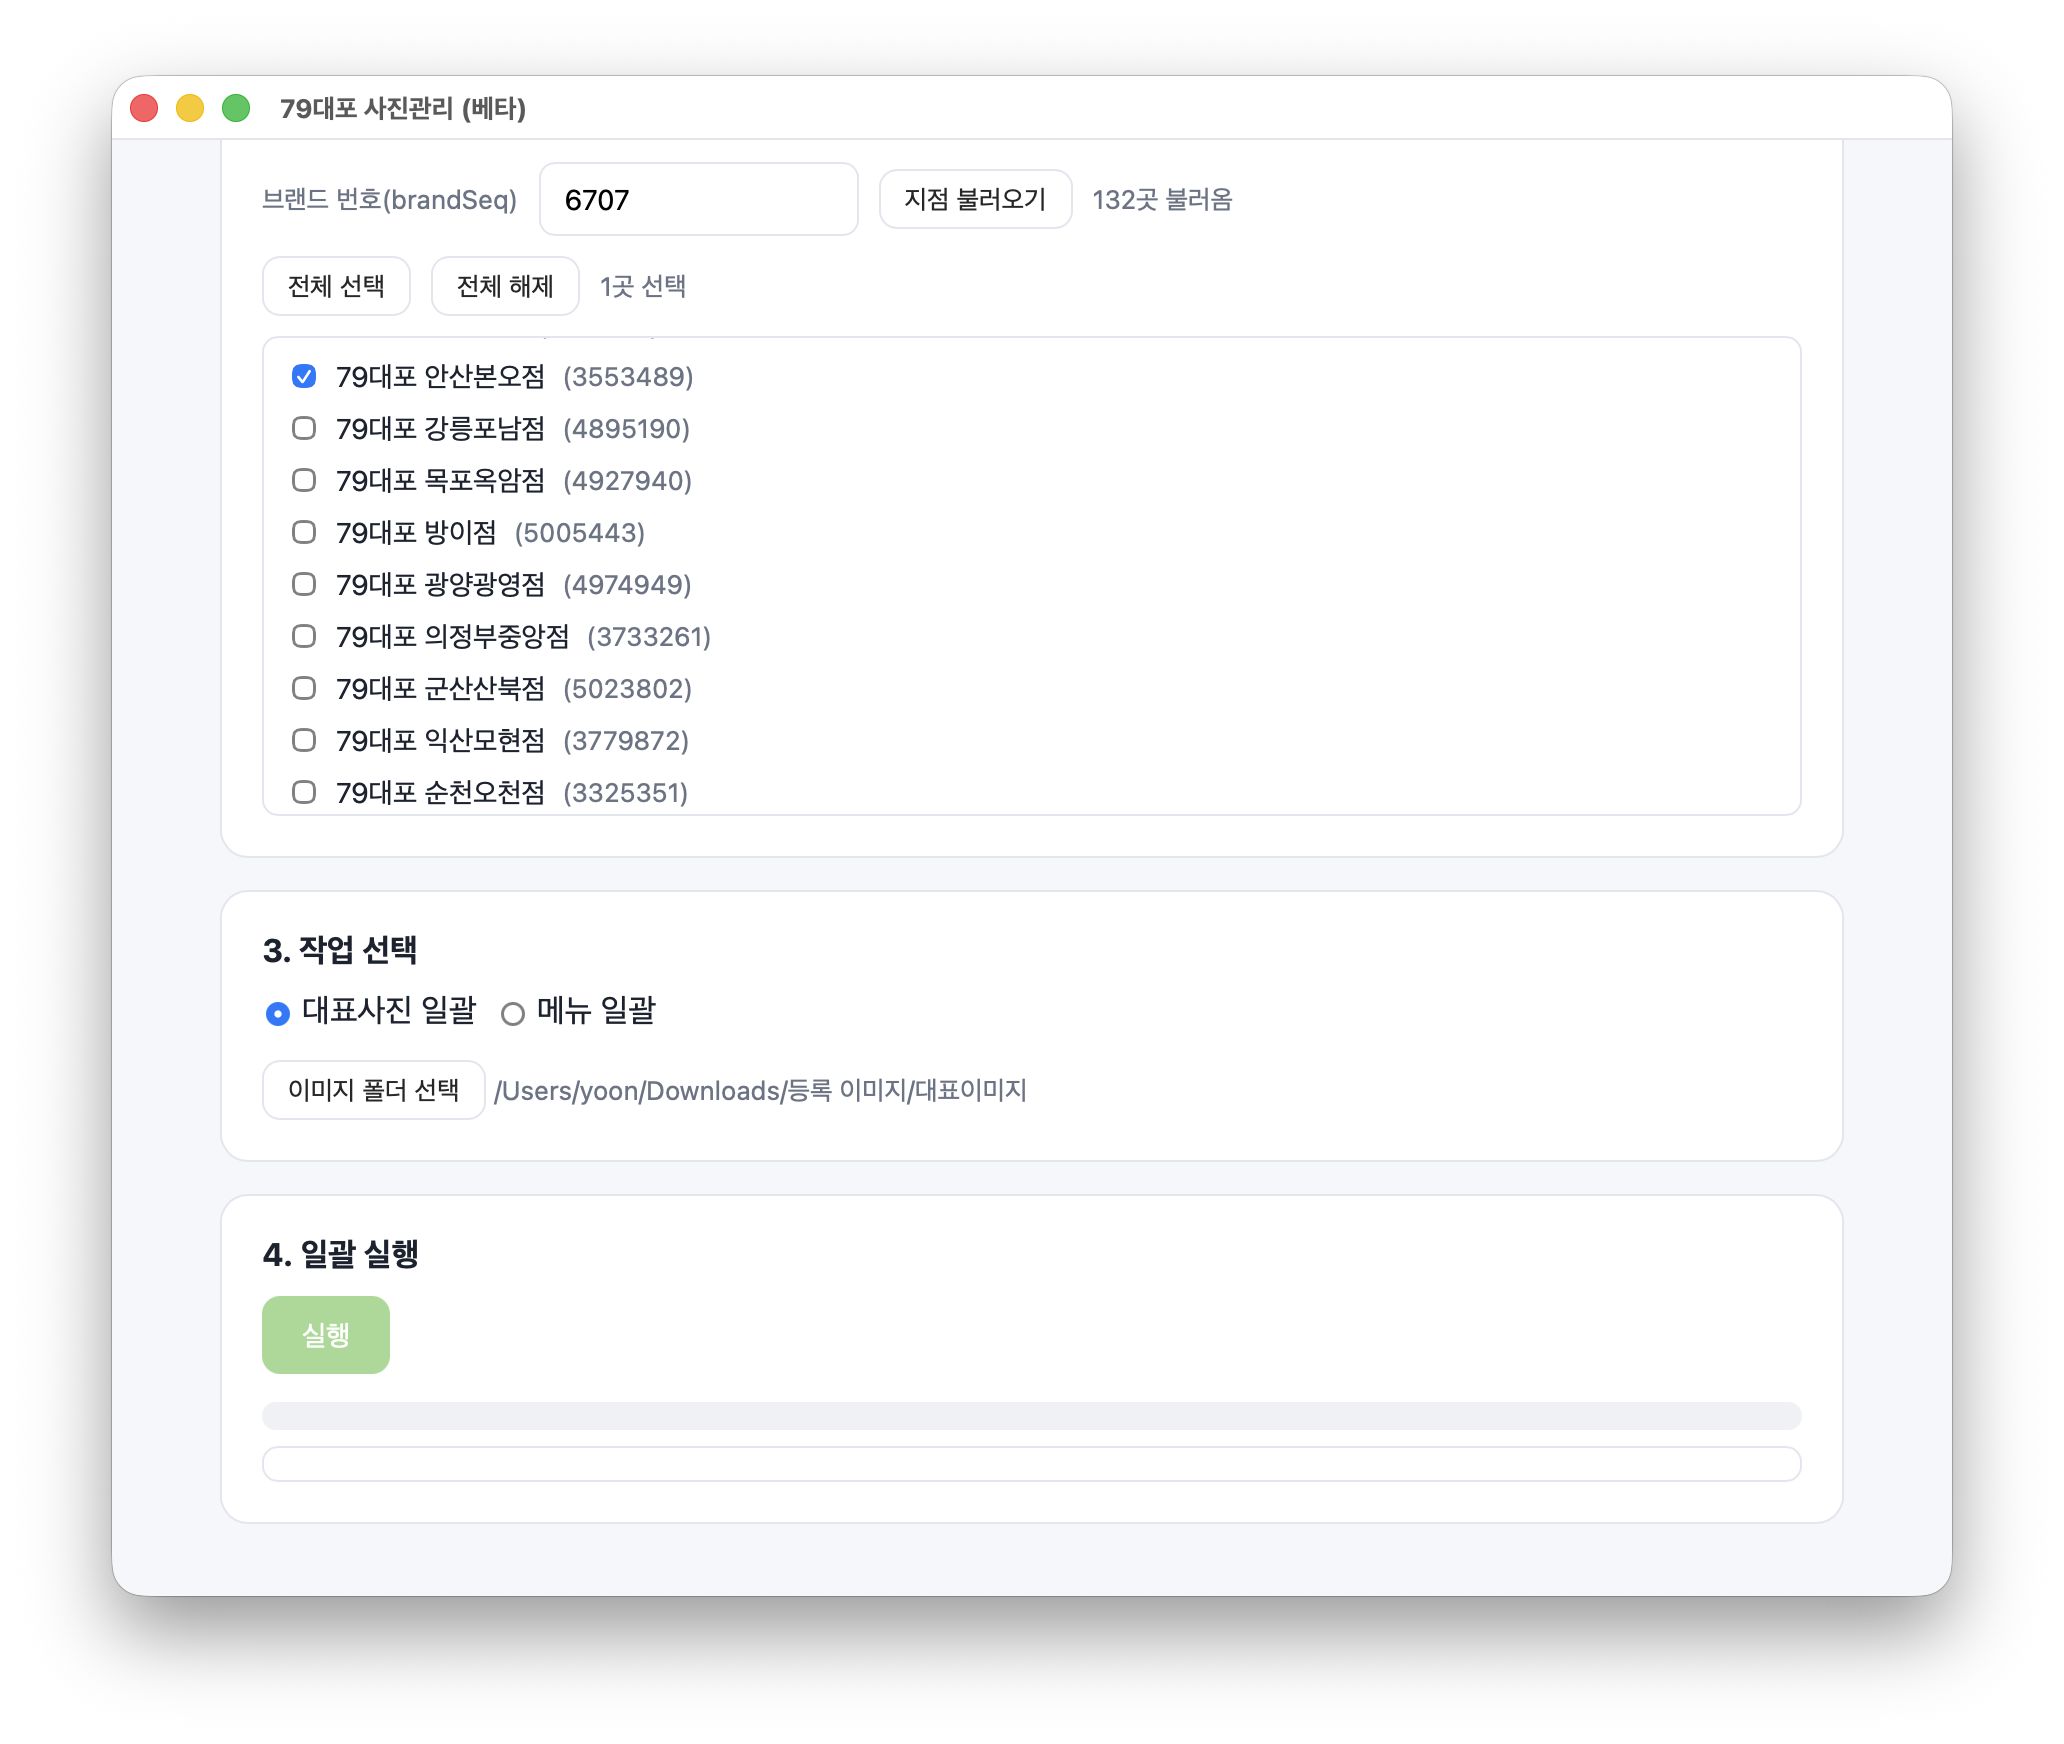
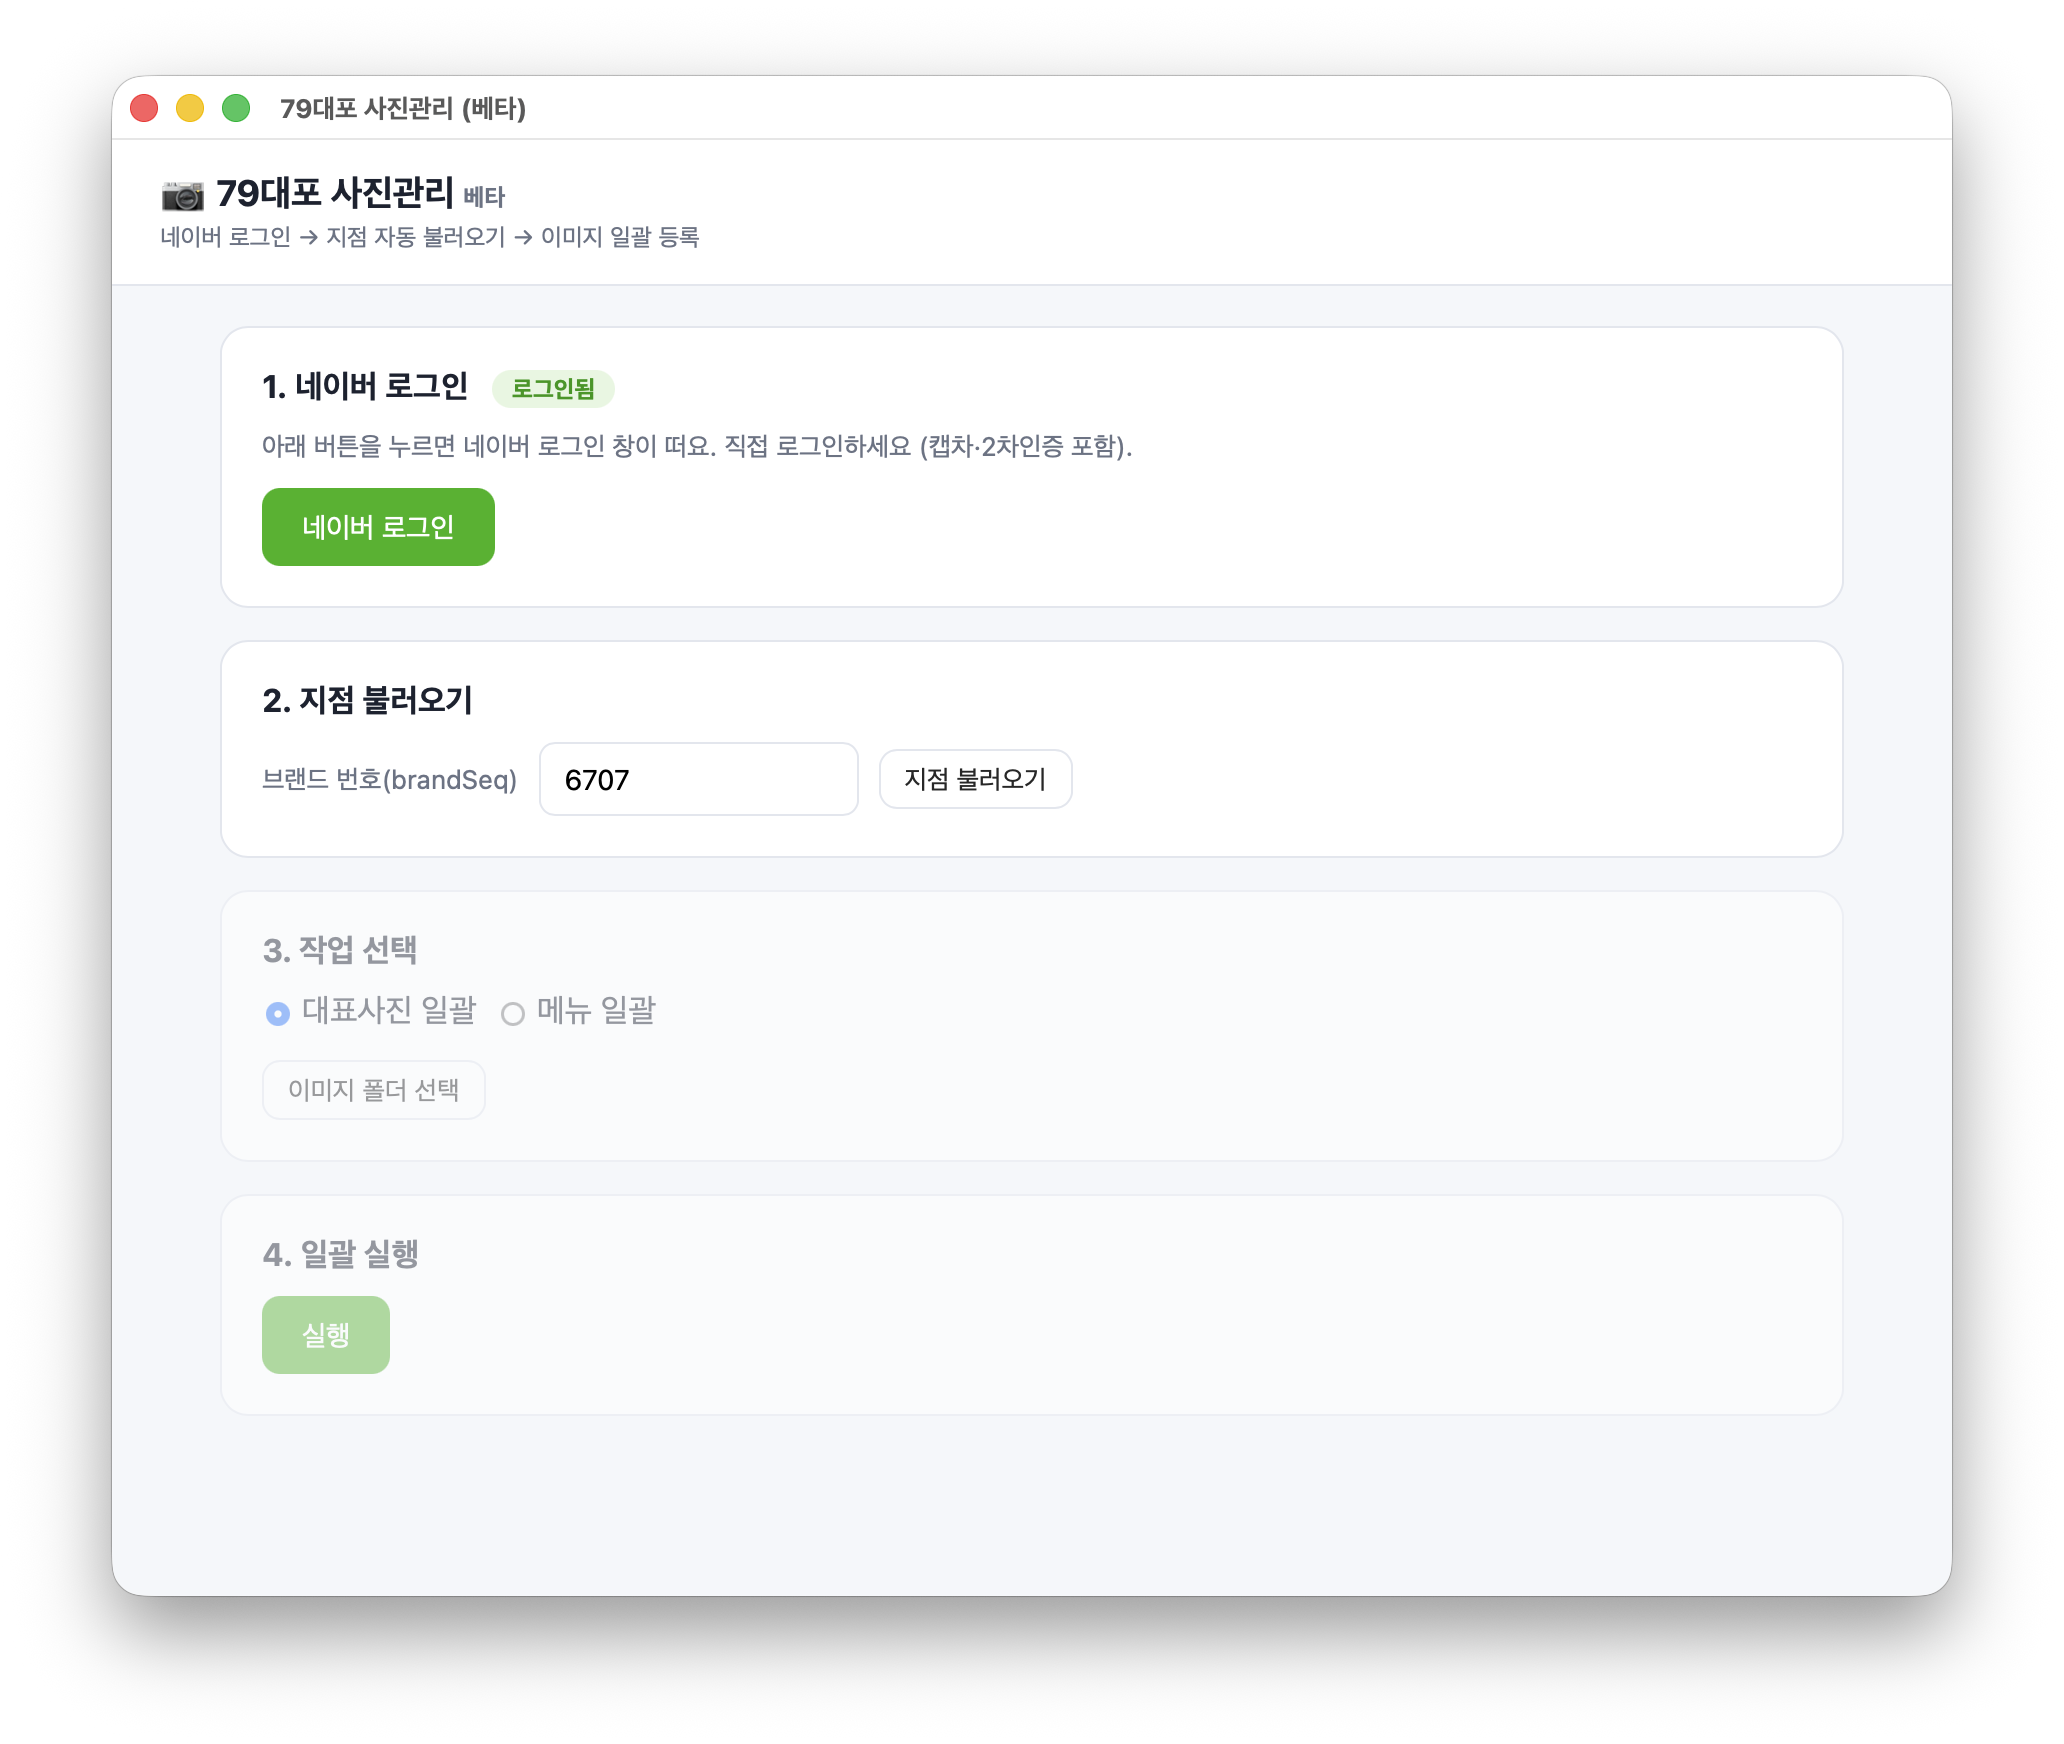
메인 스크린샷을 로그인 보이는 전체 화면으로 교체 + 앱에 메뉴 양식(CSV) 다운로드 버튼 추가
- README 히어로 이미지: 로그인→지점→사진/메뉴→실행 한눈에
- 앱 메뉴 모드에 '양식 받기' 버튼(양식 저장→엑셀 작성→업로드 흐름)

diff --git a/desktop/ui/index.html b/desktop/ui/index.html
@@ -85,8 +85,12 @@
           <span id="folder" class="folder"></span>
         </div>
         <div id="menuBox" style="margin-top:14px; display:none">
-          <button class="btn-ghost" onclick="pickCsv()">메뉴 CSV 선택</button>
-          <span id="csv" class="folder"></span>
+          <p class="muted" style="margin:0 0 8px">① 양식 받기 → 엑셀로 메뉴 채우기 → ② 작성한 파일 선택</p>
+          <button class="btn-ghost" onclick="saveTemplate()">📥 메뉴 양식(CSV) 받기</button>
+          <div style="margin-top:8px">
+            <button class="btn-ghost" onclick="pickCsv()">② 작성한 CSV 선택</button>
+            <span id="csv" class="folder"></span>
+          </div>
           <div style="margin-top:8px">
             <button class="btn-ghost" onclick="pickMenuImg()">메뉴 이미지 폴더 (선택)</button>
             <span id="menuImg" class="folder"></span>
@@ -166,6 +170,12 @@
           folder = r.folder;
           document.getElementById('folder').textContent = '  ' + folder;
           document.getElementById('s4').classList.remove('disabled');
+        }
+      }
+      async function saveTemplate() {
+        const r = await api().save_template();
+        if (r.saved) {
+          alert('메뉴 양식을 저장했어요:\n' + r.saved + '\n\n엑셀로 열어 메뉴를 채운 뒤, "② 작성한 CSV 선택"으로 올리세요.');
         }
       }
       async function pickCsv() {

diff --git a/desktop/app.py b/desktop/app.py
@@ -8,12 +8,21 @@
 
 import json
 import threading
+from pathlib import Path
 
 import webview
 
 import automation
 
 window = None
+
+# 메뉴 CSV 양식 (엑셀에서 채워서 업로드). utf-8-sig = 엑셀 한글 깨짐 방지.
+MENU_TEMPLATE = (
+    "name,price,description,image,recommended\n"
+    "빠삭파전,6900,겉바속촉 빠삭파전,,Y\n"
+    "생크림막걸리,9000,부드럽고 시원한 막걸리,,N\n"
+    "소곱창전골,8900,가성비 좋은 소곱창전골,,N\n"
+)
 
 
 class Api:
@@ -40,6 +49,14 @@ class Api:
         result = window.create_file_dialog(
             webview.OPEN_DIALOG, file_types=("CSV 파일 (*.csv)", "모든 파일 (*.*)"))
         return {"path": result[0] if result else None}
+
+    def save_template(self) -> dict:
+        dest = window.create_file_dialog(webview.SAVE_DIALOG, save_filename="메뉴양식.csv")
+        if not dest:
+            return {"saved": None}
+        path = dest if isinstance(dest, str) else dest[0]
+        Path(path).write_text(MENU_TEMPLATE, encoding="utf-8-sig")
+        return {"saved": path}
 
     def _run_bg(self, fn):
         def run():

diff --git a/README.md b/README.md
@@ -10,7 +10,7 @@
 
 ## 미리보기
 <p align="center">
-  <img src="docs/screenshot-main.png" width="49%" alt="앱 메인 화면 — 지점 자동 불러오기, 사진/메뉴 토글" />
+  <img src="docs/screenshot-main.png" width="49%" alt="앱 메인 — 네이버 로그인 → 지점 불러오기 → 사진/메뉴 → 실행" />
   <img src="docs/screenshot-result.png" width="49%" alt="일괄 실행 — 진행률과 성공 결과" />
 </p>
 